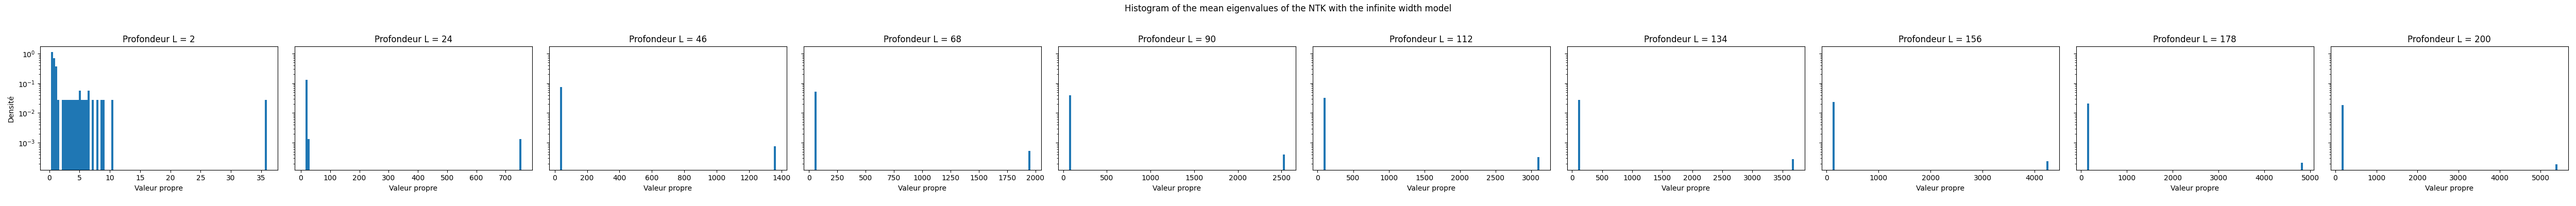
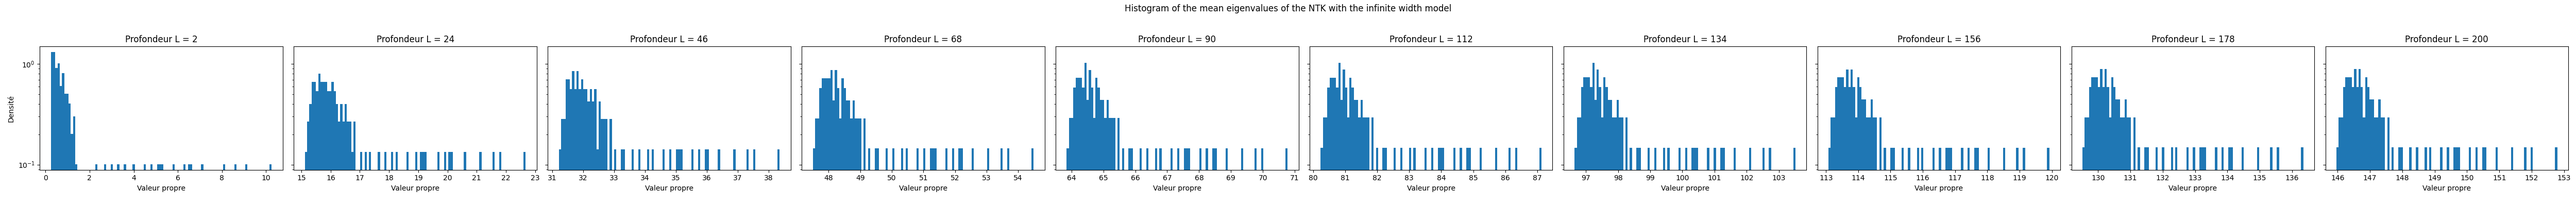
good scale now for the spectrum, this uniform discrepancy for the spectrum is great, to do also with the HESSIAN

diff --git a/experiments/ntk_vs_depth_infinite.py b/experiments/ntk_vs_depth_infinite.py
@@ -52,9 +52,11 @@ fig, axes = plt.subplots(1, n_L, figsize=(5 * n_L, 4), sharey=True)
 fig.suptitle(f'Histogram of the mean eigenvalues of the NTK with the infinite width model')
 for i, L in enumerate(L_VALUES):
     ax = axes[i]
-    eigenvalues = eigenvalues_per_L[i].copy()  # Make a copy to avoid modifying original
-    eigenvalues = eigenvalues[eigenvalues != np.max(eigenvalues)]  # Remove max eigenvalue
-    ax.hist(eigenvalues, bins=100, density=True)  # Plot histogram without max eigenvalue to avoid scale issues
+    
+    # BE CAREFUL : we remove the largest eigenvalue to avoid the scale issues
+    eigenvalues = eigenvalues_per_L[i].copy()  
+    eigenvalues = eigenvalues[eigenvalues != np.max(eigenvalues)]
+    ax.hist(eigenvalues, bins=100, density=True)  # histogram without max eigenvalue to avoid scale issues
     ax.set_title(f"Profondeur L = {L}")
     ax.set_xlabel("Valeur propre")
     ax.set_yscale('log')
@@ -101,4 +103,6 @@ plt.legend()
 plt.savefig(PATH_TO_PLOTS + "/largest_eigenvalue_vs_L_infinite.png")
 print("Graphique de la k-ième valeur propre enregistré dans " + PATH_TO_PLOTS + "/largest_eigenvalue_vs_L_infinite.png")
 
+
+# we store as a npy file the eigenvalue 
 
